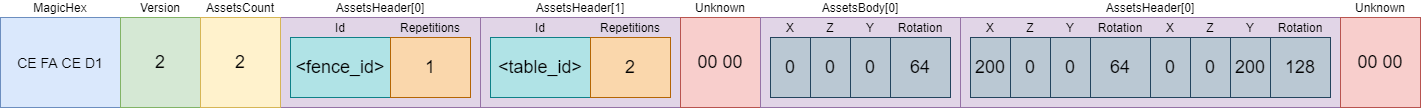
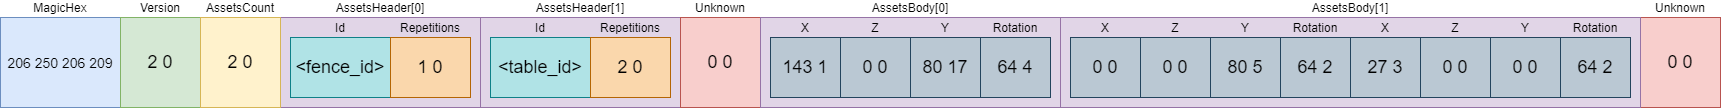
fix version 2 docs

diff --git a/docs/version2.md b/docs/version2.md
@@ -11,14 +11,20 @@ The content of the base64 string is a gzip file
 
 One Fence and Two Tables
 
+**Photo**
 ![version_size](./../docs/images/version2photo.png)
 
+**Base64**
 ```
[1 lines of base64/hex data omitted]
 ```
-
+**Byte Array**
+```
+206 250 206 209 2 0 2 0 0 0 139 116 143 83 186 25 110 73 135 223 16 97 138 147 24 116 1 0 0 0 184 33 239 226 66 97 53 65 152 89 146 129 168 178 86 252 2 0 0 0 143 1 0 0 80 17 64 4 0 0 0 0 80 5 64 2 27 3 0 0 0 0 64 2 0 0
+```
 ![title](./../docs/images/version2example.png)
 
+**Json**
 ```json
 {
   "magic_hex": ["CE", "FA", "CE", "D1"],
